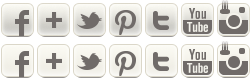
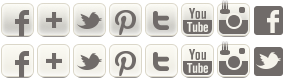
style modals and add success message on subscribe modal

diff --git a/Idecorate/static/stylesheets/global.css b/Idecorate/static/stylesheets/global.css
@@ -219,7 +219,11 @@ input.inputText {
 input.btn {
   cursor: pointer; }
 
+input::-moz-focus-inner {
+  border: 0; }
+
 .btn {
+  outline: 0;
   padding: 5px 10px !important;
   display: inline-block;
   text-align: center;
@@ -480,25 +484,25 @@ ul.simpleDropdown li {
   padding-bottom: 70px;
   border-top: 1px solid #dbd7c9; }
 
-#user_access, #newsletter_form_wrap, #newsletter_success_wrap {
+#user_access, #newsletter_form_wrap, #modal_default_messages {
   display: none;
   background-color: #FFFFFF;
   border: 1px solid #dbd7c9;
   padding: 25px; }
-  #user_access p, #newsletter_form_wrap p, #newsletter_success_wrap p {
+  #user_access p, #newsletter_form_wrap p, #modal_default_messages p {
     color: #666666;
     font-family: "PT Serif", serif;
     font-size: 12px; }
-  #user_access .formWrap .fieldset .legendWrap .legend, #newsletter_form_wrap .formWrap .fieldset .legendWrap .legend, #newsletter_success_wrap .formWrap .fieldset .legendWrap .legend {
+  #user_access .formWrap .fieldset .legendWrap .legend, #newsletter_form_wrap .formWrap .fieldset .legendWrap .legend, #modal_default_messages .formWrap .fieldset .legendWrap .legend {
     font-size: 17px;
     color: #333333; }
-  #user_access .formWrap .fieldsetContent, #newsletter_form_wrap .formWrap .fieldsetContent, #newsletter_success_wrap .formWrap .fieldsetContent {
+  #user_access .formWrap .fieldsetContent, #newsletter_form_wrap .formWrap .fieldsetContent, #modal_default_messages .formWrap .fieldsetContent {
     padding: 2px 0; }
-    #user_access .formWrap .fieldsetContent .formMessages, #newsletter_form_wrap .formWrap .fieldsetContent .formMessages, #newsletter_success_wrap .formWrap .fieldsetContent .formMessages {
+    #user_access .formWrap .fieldsetContent .formMessages, #newsletter_form_wrap .formWrap .fieldsetContent .formMessages, #modal_default_messages .formWrap .fieldsetContent .formMessages {
       background-color: #f6f5f0;
-      width: 266px !important;
+      width: 266px;
       margin: 0 auto; }
-      #user_access .formWrap .fieldsetContent .formMessages .errorList, #user_access .formWrap .fieldsetContent .formMessages .error, #user_access .formWrap .fieldsetContent .formMessages .warning, #newsletter_form_wrap .formWrap .fieldsetContent .formMessages .errorList, #newsletter_form_wrap .formWrap .fieldsetContent .formMessages .error, #newsletter_form_wrap .formWrap .fieldsetContent .formMessages .warning, #newsletter_success_wrap .formWrap .fieldsetContent .formMessages .errorList, #newsletter_success_wrap .formWrap .fieldsetContent .formMessages .error, #newsletter_success_wrap .formWrap .fieldsetContent .formMessages .warning {
+      #user_access .formWrap .fieldsetContent .formMessages .errorList, #user_access .formWrap .fieldsetContent .formMessages .error, #user_access .formWrap .fieldsetContent .formMessages .warning, #newsletter_form_wrap .formWrap .fieldsetContent .formMessages .errorList, #newsletter_form_wrap .formWrap .fieldsetContent .formMessages .error, #newsletter_form_wrap .formWrap .fieldsetContent .formMessages .warning, #modal_default_messages .formWrap .fieldsetContent .formMessages .errorList, #modal_default_messages .formWrap .fieldsetContent .formMessages .error, #modal_default_messages .formWrap .fieldsetContent .formMessages .warning {
         font-size: 11px;
         line-height: 13px;
         padding: 7px;
@@ -506,25 +510,25 @@ ul.simpleDropdown li {
         text-transform: uppercase;
         font-style: normal !important;
         color: #666666 !important; }
-    #user_access .formWrap .fieldsetContent .fieldGroup, #newsletter_form_wrap .formWrap .fieldsetContent .fieldGroup, #newsletter_success_wrap .formWrap .fieldsetContent .fieldGroup {
+    #user_access .formWrap .fieldsetContent .fieldGroup, #newsletter_form_wrap .formWrap .fieldsetContent .fieldGroup, #modal_default_messages .formWrap .fieldsetContent .fieldGroup {
       padding: 3px 0; }
-    #user_access .formWrap .fieldsetContent .fieldGroup.operation, #newsletter_form_wrap .formWrap .fieldsetContent .fieldGroup.operation, #newsletter_success_wrap .formWrap .fieldsetContent .fieldGroup.operation {
+    #user_access .formWrap .fieldsetContent .fieldGroup.operation, #newsletter_form_wrap .formWrap .fieldsetContent .fieldGroup.operation, #modal_default_messages .formWrap .fieldsetContent .fieldGroup.operation {
       text-align: right; }
-      #user_access .formWrap .fieldsetContent .fieldGroup.operation .btn, #newsletter_form_wrap .formWrap .fieldsetContent .fieldGroup.operation .btn, #newsletter_success_wrap .formWrap .fieldsetContent .fieldGroup.operation .btn {
+      #user_access .formWrap .fieldsetContent .fieldGroup.operation .btn, #newsletter_form_wrap .formWrap .fieldsetContent .fieldGroup.operation .btn, #modal_default_messages .formWrap .fieldsetContent .fieldGroup.operation .btn {
         padding: 5px !important;
         font-size: 11px !important; }
-      #user_access .formWrap .fieldsetContent .fieldGroup.operation .btn:hover, #newsletter_form_wrap .formWrap .fieldsetContent .fieldGroup.operation .btn:hover, #newsletter_success_wrap .formWrap .fieldsetContent .fieldGroup.operation .btn:hover {
+      #user_access .formWrap .fieldsetContent .fieldGroup.operation .btn:hover, #newsletter_form_wrap .formWrap .fieldsetContent .fieldGroup.operation .btn:hover, #modal_default_messages .formWrap .fieldsetContent .fieldGroup.operation .btn:hover {
         color: #333333; }
-      #user_access .formWrap .fieldsetContent .fieldGroup.operation .closeModalBtn, #newsletter_form_wrap .formWrap .fieldsetContent .fieldGroup.operation .closeModalBtn, #newsletter_success_wrap .formWrap .fieldsetContent .fieldGroup.operation .closeModalBtn {
+      #user_access .formWrap .fieldsetContent .fieldGroup.operation .closeModalBtn, #newsletter_form_wrap .formWrap .fieldsetContent .fieldGroup.operation .closeModalBtn, #modal_default_messages .formWrap .fieldsetContent .fieldGroup.operation .closeModalBtn {
         line-height: 18px !important; }
-  #user_access .formWrap label, #newsletter_form_wrap .formWrap label, #newsletter_success_wrap .formWrap label {
+  #user_access .formWrap label, #newsletter_form_wrap .formWrap label, #modal_default_messages .formWrap label {
     font-size: 11px;
     text-transform: uppercase;
     display: inline-block;
     width: 90px;
     text-align: right;
     white-space: nowrap !important; }
-  #user_access .formWrap input[type="text"], #user_access .formWrap input[type="password"], #user_access .formWrap input[type="email"], #newsletter_form_wrap .formWrap input[type="text"], #newsletter_form_wrap .formWrap input[type="password"], #newsletter_form_wrap .formWrap input[type="email"], #newsletter_success_wrap .formWrap input[type="text"], #newsletter_success_wrap .formWrap input[type="password"], #newsletter_success_wrap .formWrap input[type="email"] {
+  #user_access .formWrap input[type="text"], #user_access .formWrap input[type="password"], #user_access .formWrap input[type="email"], #newsletter_form_wrap .formWrap input[type="text"], #newsletter_form_wrap .formWrap input[type="password"], #newsletter_form_wrap .formWrap input[type="email"], #modal_default_messages .formWrap input[type="text"], #modal_default_messages .formWrap input[type="password"], #modal_default_messages .formWrap input[type="email"] {
     width: 260px;
     -webkit-border-radius: 0;
     -moz-border-radius: 0;
@@ -533,14 +537,33 @@ ul.simpleDropdown li {
     font-size: 12px;
     padding: 5px 2px; }
 
+#modal_default_messages {
+  min-width: 400px;
+  color: #666666; }
+
+#modal_default_messages.newsletterSubscribe .fieldsetContent {
+  font-family: "PT Serif", serif;
+  margin-top: 20px;
+  color: #666666 !important; }
+  #modal_default_messages.newsletterSubscribe .fieldsetContent h3 {
+    font-size: 14px;
+    line-height: 18px;
+    font-style: italic;
+    margin-bottom: 20px; }
+  #modal_default_messages.newsletterSubscribe .fieldsetContent .btn {
+    padding: 10px 30px !important; }
+
 #user_access {
-  border-right: none;
+  border-left: none;
   padding: 0; }
-  #user_access .formWrap {
-    padding: 25px;
-    min-height: 260px;
-    float: left;
+  #user_access .loginWrap {
     border-right: 1px solid #dbd7c9; }
+  #user_access .formWrap {
+    margin-left: -1px;
+    padding: 25px;
+    min-height: 320px;
+    float: left;
+    border-left: 1px solid #dbd7c9; }
     #user_access .formWrap .fieldset {
       margin-top: 20px;
       padding-top: 20px; }
@@ -573,8 +596,24 @@ ul.simpleDropdown li {
           line-height: 20px !important;
           text-transform: lowercase;
           font-style: italic; }
-      #user_access .formWrap .fieldset.socialLogin a {
-        display: block; }
+      #user_access .formWrap .fieldset.socialLogin .fieldsetContent div {
+        margin-top: 5px; }
+      #user_access .formWrap .fieldset.socialLogin a img {
+        background-image: url("/static/images/social_icons.png");
+        background-repeat: no-repeat;
+        height: 29px;
+        width: 29px;
+        display: inline-block;
+        vertical-align: middle; }
+      #user_access .formWrap .fieldset.socialLogin a span {
+        display: inline-block;
+        width: 150px;
+        text-align: center;
+        vertical-align: middle; }
+      #user_access .formWrap .fieldset.socialLogin a.facebookLogin img {
+        background-position: -254px -6px; }
+      #user_access .formWrap .fieldset.socialLogin a.twitterLogin img {
+        background-position: -254px -47px; }
     #user_access .formWrap .socialLogin:before {
       border: none;
       background-color: #FFFFFF;

diff --git a/Idecorate/static/_sass/global.scss b/Idecorate/static/_sass/global.scss
@@ -280,8 +280,12 @@ input.inputText{
 input.btn{
 	cursor:pointer;
 }
+input::-moz-focus-inner { 
+  border: 0; 
+}
 
 .btn{
+	outline: 0;
 	padding:5px 10px !important;
 	display: inline-block;
 	text-align:center;
@@ -539,7 +543,7 @@ ul.simpleDropdown li{
 	border-top: 1px solid $border_01;
 }
 
-#user_access, #newsletter_form_wrap, #newsletter_success_wrap{
+#user_access, #newsletter_form_wrap, #modal_default_messages{
 	display:none;
 	background-color:#FFFFFF; 
 	border:1px solid $border_01; 
@@ -571,7 +575,7 @@ ul.simpleDropdown li{
 			// }
 			.formMessages{
 				background-color: #f6f5f0;
-				width: 266px !important;
+				width: 266px;
 				margin: 0 auto;
 				.errorList, .error, .warning{
 					font-size: 11px;
@@ -617,14 +621,39 @@ ul.simpleDropdown li{
 		}
 	}
 }
+#modal_default_messages{
+	min-width: 400px;
+	color: #666666;
+}
+#modal_default_messages.newsletterSubscribe{
+	.fieldsetContent{
+		font-family: $PTserif;
+		margin-top: 20px;
+		color: #666666 !important;
+		h3{
+			font-size: 14px;
+			line-height: 18px;
+			font-style: italic;
+			margin-bottom: 20px;
+		}
+		.btn{
+			padding: 10px 30px !important;
+		}
+	}
+	
+}
 #user_access{
-	border-right:none;
+	border-left:none;
 	padding: 0;
-	.formWrap{
-		padding: 25px;
-		min-height: 260px;
-		float: left;
+	.loginWrap{
 		border-right: 1px solid $border_01;
+	}
+	.formWrap{
+		margin-left: -1px;
+		padding: 25px;
+		min-height: 320px;
+		float: left;
+		border-left: 1px solid $border_01;
 		.fieldset{
 			margin-top: 20px;
 			padding-top: 20px;
@@ -668,8 +697,30 @@ ul.simpleDropdown li{
 					font-style: italic;
 				}
 			}
+			.fieldsetContent div{
+				margin-top: 5px;
+			}
 			a{
-				display: block;
+				img{
+					background-image : url('/static/images/social_icons.png');
+					background-repeat: no-repeat;
+					height: 29px;
+					width: 29px;
+					display: inline-block;
+					vertical-align: middle;
+				}
+				span{
+					display: inline-block;
+					width: 150px;
+					text-align: center;
+					vertical-align: middle;
+				}
+			}
+			a.facebookLogin img{
+				background-position: -254px -6px;
+			}
+			a.twitterLogin img{
+				background-position: -254px -47px;
 			}
 		}
 		.socialLogin:before{

diff --git a/Idecorate/customer/templates/customer/user_access.html b/Idecorate/customer/templates/customer/user_access.html
@@ -1,6 +1,6 @@
 {% load i18n widget_tweaks static %}
 <div id="user_access" class="clearfix">
-	<div class="formWrap">
+	<div class="formWrap loginWrap">
 		<form action="/customer_login/" id="login_form">
 			<div class="fieldset">
                 <span class="legendWrap"><span class="legend">Login into an<br/>existing account</span></span>
@@ -26,12 +26,18 @@
 		<div class="fieldset socialLogin">
             <span class="legendWrap"><span class="legend">or</span></span>
             <div class="fieldsetContent">
-				<a id="idecorate_fb" href="/login/facebook/" class="clearfix">
-                	<img src="{% static 'images/login_facebook.png' %}" />
-                </a>
-                <a id="idecorate_twitter" href="/login/twitter/" class="clearfix">
-                	<img src="{% static 'images/login_twitter.png' %}" />
-                </a>
+            	<div>
+					<a id="idecorate_fb" class="btn facebookLogin" href="/login/facebook/">
+	                	<img src="{% static 'images/img_trans.gif' %}" />
+	                	<span>Sign with facebook</span>
+	                </a>
+                </div>
+            	<div>
+	                <a id="idecorate_twitter" class="btn twitterLogin" href="/login/twitter/">
+	                	<img src="{% static 'images/img_trans.gif' %}" />
+	                	<span>Sign with twitter</span>
+	                </a>
+                </div>
 			</div>
 		</div>
 	</div>

diff --git a/Idecorate/static/javascripts/global.calls.js b/Idecorate/static/javascripts/global.calls.js
@@ -140,6 +140,7 @@ $(function() {
         event.preventDefault();
     });
 
+
     $('#newsletter_form').submit(function(event) {
 
         var $form = $(this);
@@ -167,10 +168,11 @@ $(function() {
             if(response.response == "success"){
                 
                 $.modal.close();
-                var successModal =  $('#newsletter_success_wrap');
-                successModalMessage = response.messages;
-                successModalMessage += '<h3>Thank you</h3>';
-                successModalMessage += '<a href="#" class="btn closeModalBtn">Ok</a>';
+                var successModal =  $('#modal_default_messages');
+                var successModalMessage = response.messages;
+                successModalMessage += '<h3>Thank you</h3><a href="#" class="btn closeModalBtn">Ok</a>';
+                successModal.addClass('newsletterSubscribe');
+                successModal.find('.legend').text('Subscribe to our newsletter');
                 successModal.find('.fieldsetContent').html(successModalMessage)
                 successModal.modal({
                     closeClass:'closeModalBtn',

diff --git a/Idecorate/templates/global_forms.html b/Idecorate/templates/global_forms.html
@@ -24,11 +24,11 @@
         </form>
     </div>
 </div>
-<div id="newsletter_success_wrap">
-    <div class="fieldset">
-        <span class="legendWrap"><span class="legend">Subscribe to our newsletter</span></span>
-        <div class="fieldsetContent">
-            
-        </div>
+<div id="modal_default_messages">
+    <div class="formWrap">
+        <div class="fieldset">
+            <span class="legendWrap"><span class="legend"></span></span>
+            <div class="fieldsetContent"></div>
+        </div>  
     </div>  
 </div>
